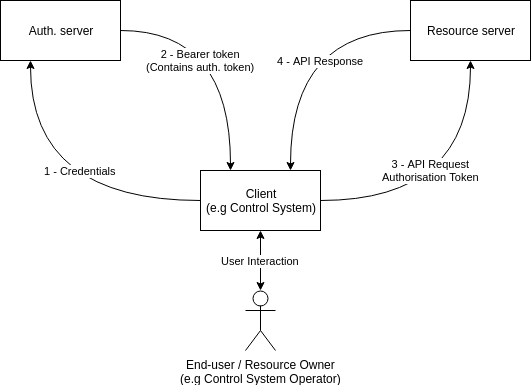
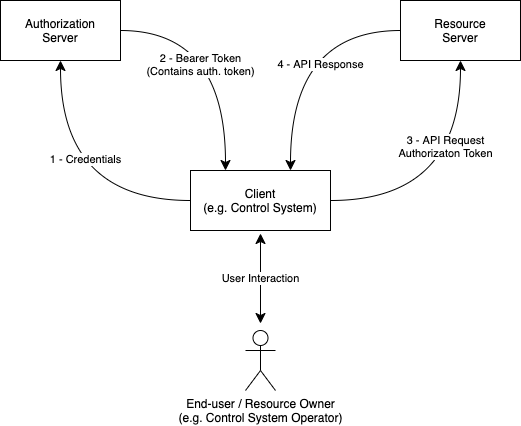
Deploy AMWA-TV/nmos-authorization to github.com/AMWA-TV/nmos-authorization.git:gh-pages

diff --git a/branches/v1.0-dev/docs/4.5._Behaviour_-_Resource_Servers.md b/branches/v1.0-dev/docs/4.5._Behaviour_-_Resource_Servers.md
@@ -89,6 +89,6 @@ such as secrets. Logs SHOULD be stored securely and maintained for at least one 
 
 [RFC-7515]: https://tools.ietf.org/html/rfc7515 "JSON Web Signature (JWS)"
 
-[BCP-003-02]: https://github.com/AMWA-TV/nmos-api-security/blob/v1.0-dev/best-practice-authorization.md "Best Practice Authorization"
+[BCP-003-02]: https://amwa-tv.github.io/nmos-authorization-practice/branches/v1.0-dev/docs/1.0._Authorization_Practice.html "Authorization in NMOS Systems"
 
 [←Behaviour - Access Tokens ](4.4._Behaviour_-_Access_Tokens.md) · [ Index↑ ](..) · [Definitions→](5.0._Definitions.md)

diff --git a/branches/v1.0-dev/docs/1.0._Overview.md b/branches/v1.0-dev/docs/1.0._Overview.md
@@ -26,7 +26,7 @@ with additions made covering the topics of discovery, preferred OAuth grant type
 Tokens (JWTs).
 
 Use of insecure communication (plain HTTP etc.) is forbidden within the scope of this document. Whilst this document
-is not concerned with the security of the connection used to carry out authorization or subsequently authorised
+is not concerned with the security of the connection used to carry out authorization or subsequently authorized
 interactions, for the authorization mechanisms described in this document to be effective the connection used MUST
 be encrypted.
 

diff --git a/branches/v1.0-dev/docs/2.0._APIs.md b/branches/v1.0-dev/docs/2.0._APIs.md
@@ -61,7 +61,7 @@ paths provided they are correctly signalled in the Authorization Server Metadata
 defined by [RFC 7009][RFC-7009].
 *   **/jwks** - Used to expose a JSON Web Key Set [RFC 7517][RFC-7517] containing the public key that corresponds with
 the private key used to sign the access tokens.
-*   **/register** - Used for the manual or dynamic registration of an OAuth 2.0 client with the Authorisation
+*   **/register** - Used for the manual or dynamic registration of an OAuth 2.0 client with the Authorization
 Server in line with [RFC 7591][RFC-7591].
 
 ## API Interaction
